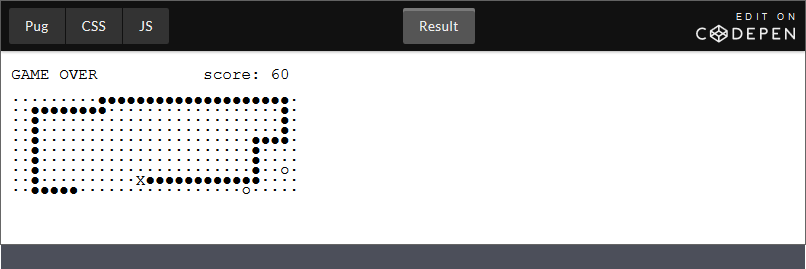
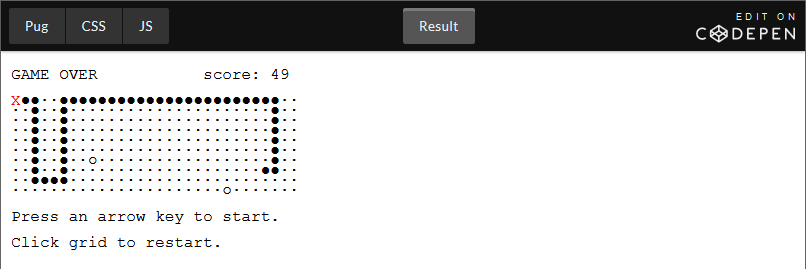
Added colour and restart

diff --git a/snake.js b/snake.js
@@ -1,7 +1,7 @@
-(() => {
+(run = () => {
   const game = document.getElementById('game'), grid = document.getElementById('grid');
   const rows = 10, cols = 30;
-  const dirs = { ArrowUp: 'U', ArrowDown: 'D', ArrowLeft: 'L', ArrowRight: 'R' };
+  const dirs = { ArrowUp: 'U', ArrowDown: 'D', ArrowLeft: 'L', ArrowRight: 'R', Up: 'U', Down: 'D', Left: 'L', Right: 'R' };
   const byArr = arr => e => e[0] === arr[0] && e[1] === arr[1];
   const rnd = (min, max) => Math.floor(Math.random() * max) + min;
   const rndPos = taken => {
@@ -16,8 +16,8 @@
   const say = msg => game.innerHTML = (msg.padEnd(20) + 'score: ' + score);
   const empty = pos => matrix[pos[0]][pos[1]] = '∙';
   const draw = end => {
-    snake.forEach(([r, c]) => matrix[r][c] = '●');
-    if (end) matrix[snake[0][0]][snake[0][1]] = 'X';
+    snake.forEach(([r, c], i) => matrix[r][c] = i === 0 ? '<span style="color:blue">●</span>' : '●');
+    if (end) matrix[snake[0][0]][snake[0][1]] = '<span style="color:red">X</span>';
     food.forEach(([r, c]) => matrix[r][c] = '○');
     grid.innerHTML = matrix.reduce((txt, row) => txt + row.join('') + '\n', '');
     say(end ? 'GAME OVER' : 'Snake');
@@ -47,10 +47,11 @@
     draw();
   };
   window.addEventListener('keydown', e => {
-    if (!int) int = setInterval(() => move(), 150);
+    if (!int) int = setInterval(() => move(), 250);
     const ndir = dirs[e.key];
     if (!ndir || dir === ndir) return;
     dir = ndir;
   });
+  grid.addEventListener('click', run);
   draw();
 })();

diff --git a/snake.html b/snake.html
@@ -4,15 +4,18 @@
     <meta charset="UTF-8">
     <style type="text/css">
         body {
-          font-family: 'courier new';
+          font-family: "Courier New", "Liberation Mono", Consolas, monospace;
           font-size: 16px;
           line-height: 10px;
         }
+        #grid { cursor: pointer }
     </style>
 </head>
 <body>
     <pre id="game"></pre>
-    <pre id="grid"></pre>
+    <pre id="grid" title="Click to restart"></pre>
+    <p>Press an arrow key to start.</p>
+    <p>Click grid to restart.</p>
     <script src="snake.js"></script>
 </body>
 </html>
